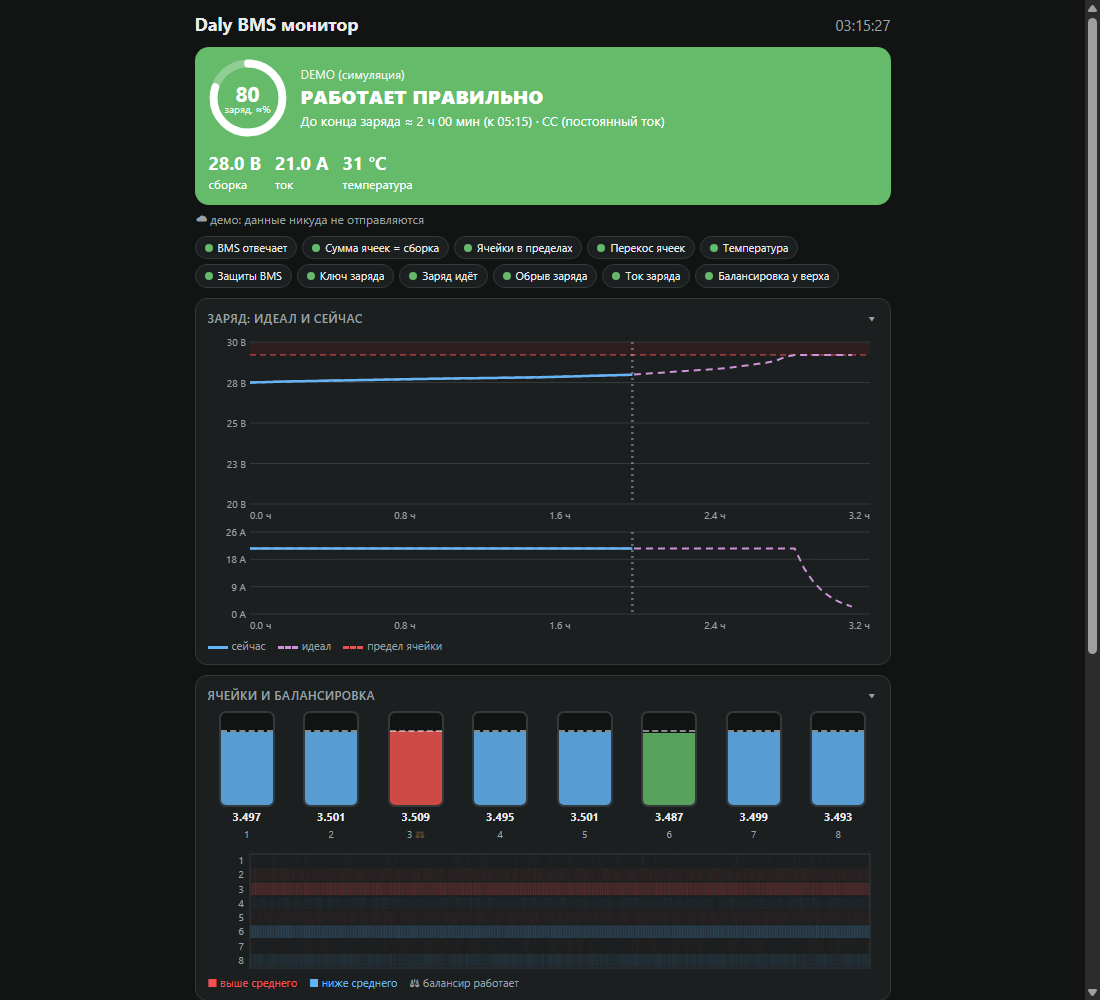
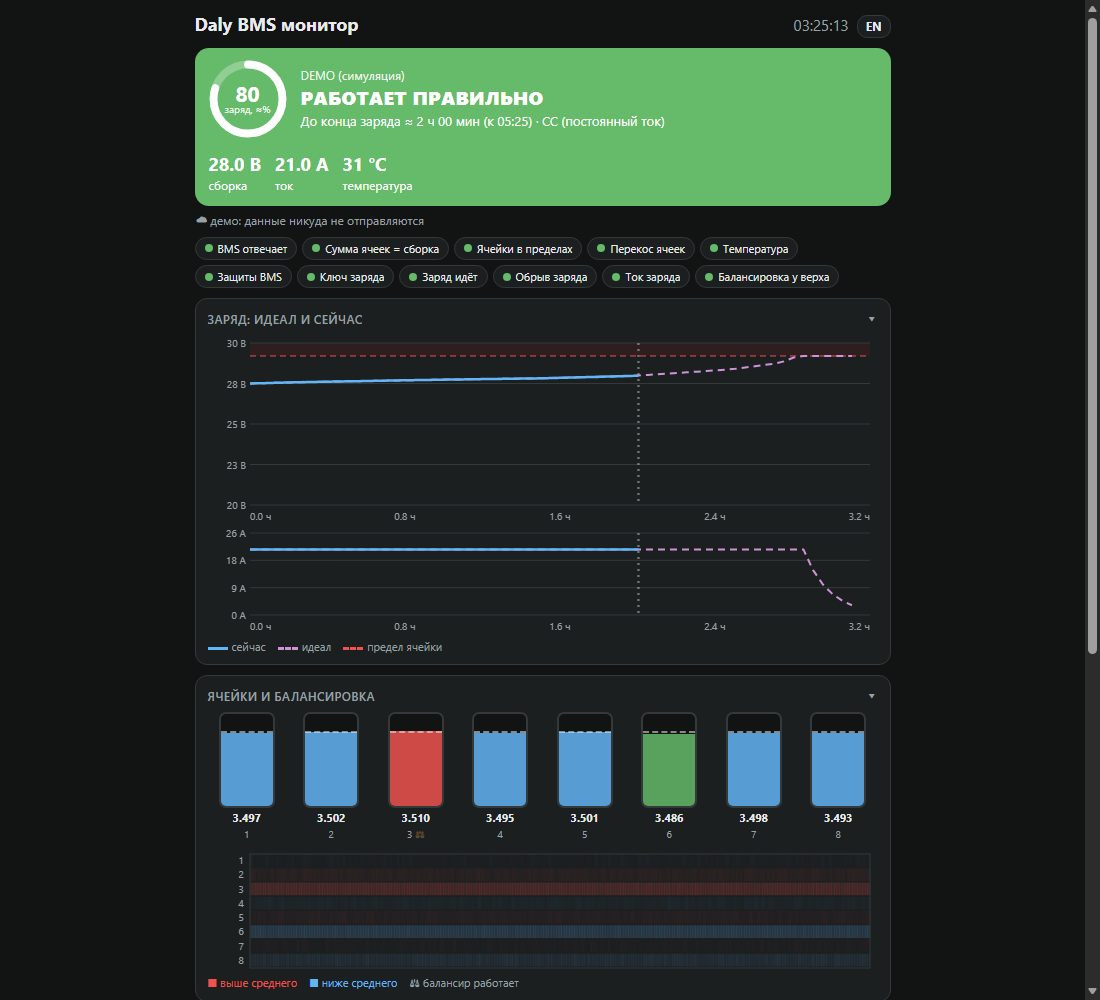
Полный английский интерфейс: переключатель RU/EN, перевод проверок, защит и подписей; английские скриншоты

diff --git a/app.js b/app.js
@@ -1,14 +1,17 @@
 'use strict';
+const LANG=(()=>{let l='';try{const m=/[?&]lang=(en|ru)\b/.exec(location.search);l=m?m[1]:localStorage.getItem('daly2:lang')||''}catch(e){}if(l!=='en'&&l!=='ru')l=/^(ru|uk|be|kk)\b/i.test(navigator.language||'')?'ru':'en';return l})();
+const tr=(ru,en)=>LANG==='ru'?ru:en;
+const uV=tr('В','V'),uA=tr('А','A'),umV=tr('мВ','mV');
 const $=id=>document.getElementById(id);
 const col=k=>getComputedStyle(document.documentElement).getPropertyValue(k).trim();
 const esc=s=>String(s).replace(/[&<>]/g,c=>({'&':'&amp;','<':'&lt;','>':'&gt;'}[c]));
 const sleep=ms=>new Promise(r=>setTimeout(r,ms));
 const u16=(f,i)=>(f[i]<<8)|f[i+1];
 const frame=cmd=>{const f=[0xA5,0x40,cmd,8,0,0,0,0,0,0,0,0];f.push(f.reduce((a,b)=>a+b)&255);return new Uint8Array(f)};
-const fh=m=>m==null?'—':(m>=60?Math.floor(m/60)+' ч '+String(m%60).padStart(2,'0')+' мин':m+' мин');
+const fh=m=>m==null?'—':(m>=60?Math.floor(m/60)+tr(' ч ',' h ')+String(m%60).padStart(2,'0')+tr(' мин',' min'):m+tr(' мин',' min'));
 const stamp=()=>{const d=new Date(),p=n=>String(n).padStart(2,'0');return `${d.getFullYear()}-${p(d.getMonth()+1)}-${p(d.getDate())} ${p(d.getHours())}:${p(d.getMinutes())}:${p(d.getSeconds())}`};
 const SVC=0xfff0,PERIOD=2000,LONG_STEP=30,MAXLONG=5760;
-const L=["РАБОТАЕТ ПРАВИЛЬНО","ВНИМАНИЕ","НЕИСПРАВНОСТЬ / НЕТ СВЯЗИ"];
+const L=[tr('РАБОТАЕТ ПРАВИЛЬНО','WORKING CORRECTLY'),tr('ВНИМАНИЕ','ATTENTION'),tr('НЕИСПРАВНОСТЬ / НЕТ СВЯЗИ','FAULT / NO CONNECTION')];
 
 const CHEM={
  lfp:{name:'LiFePO4',vmax:3650,hiWarn:3600,loWarn:2800,loBad:2500,top:3450,
@@ -16,6 +19,7 @@ const CHEM={
  nmc:{name:'Li-ion NMC',vmax:4200,hiWarn:4150,loWarn:3200,loBad:2800,top:4100,
   ocv:[[3.00,0],[3.30,5],[3.50,20],[3.60,35],[3.70,50],[3.80,65],[3.90,77],[4.00,88],[4.10,95],[4.20,100]]}
 };
+const NEN={'BMS отвечает':'BMS responds','Сумма ячеек = сборка':'Cells sum = pack','Ячейки в пределах':'Cells in range','Перекос ячеек':'Cell spread','Температура':'Temperature','Защиты BMS':'BMS protections','Ключ заряда':'Charge switch','Заряд идёт':'Charging','Обрыв заряда':'Charge interruption','Ток заряда':'Charge current','Балансировка у верха':'Top balancing'};
 const SPREAD_WARN=150,SPREAD_BAD=300,TOP_SPREAD=60,T_WARN=45,T_BAD=55,SUM_TOL=.5,RISE_MIN=2,DROP_V=.3;
 const FAULTS=[[0,[0,1],"перенапряжение ячейки"],[0,[2,3],"недонапряжение ячейки"],[0,[4,5],"перенапряжение сборки"],[0,[6,7],"недонапряжение сборки"],
  [1,[0,1],"перегрев при заряде"],[1,[2,3],"холод при заряде"],[1,[4,5],"перегрев при разряде"],[1,[6,7],"холод при разряде"],
@@ -23,8 +27,10 @@ const FAULTS=[[0,[0,1],"перенапряжение ячейки"],[0,[2,3],"н
  [4,[0],"перегрев ключа заряда"],[4,[1],"перегрев ключа разряда"],[4,[2],"датчик ключа заряда"],[4,[3],"датчик ключа разряда"],[4,[4],"залип ключ заряда"],[4,[5],"залип ключ разряда"],[4,[6],"обрыв ключа заряда"],[4,[7],"обрыв ключа разряда"],
  [5,[0],"сбой AFE"],[5,[1],"ячейка не читается"],[5,[2],"датчик температуры"],[5,[3],"EEPROM"],[5,[4],"RTC"],[5,[5],"предзаряд"],[5,[6],"связь"],[5,[7],"внутренняя связь"],
  [6,[0],"датчик тока"],[6,[1],"датчик напряжения"],[6,[2],"короткое замыкание"],[6,[3],"заряд запрещён: низкое напряжение"]];
-const SOFT=['SOC низкий','SOC высокий'];
-function decodeFaults(b){const o=[];if(!b)return o;FAULTS.forEach(([by,bits,n])=>bits.forEach((bit,l)=>{if(by<b.length&&(b[by]>>bit)&1)o.push(n+(bits.length>1?' (ур. '+(l+1)+')':''))}));return o}
+const FEN={'перенапряжение ячейки':'cell overvoltage','недонапряжение ячейки':'cell undervoltage','перенапряжение сборки':'pack overvoltage','недонапряжение сборки':'pack undervoltage','перегрев при заряде':'overtemperature (charge)','холод при заряде':'undertemperature (charge)','перегрев при разряде':'overtemperature (discharge)','холод при разряде':'undertemperature (discharge)','перегрузка заряда':'charge overcurrent','перегрузка разряда':'discharge overcurrent','SOC высокий':'SOC high','SOC низкий':'SOC low','перекос напряжений':'voltage imbalance','перекос температур':'temperature imbalance','перегрев ключа заряда':'charge MOSFET overheat','перегрев ключа разряда':'discharge MOSFET overheat','датчик ключа заряда':'charge MOSFET sensor','датчик ключа разряда':'discharge MOSFET sensor','залип ключ заряда':'charge MOSFET stuck','залип ключ разряда':'discharge MOSFET stuck','обрыв ключа заряда':'charge MOSFET open','обрыв ключа разряда':'discharge MOSFET open','сбой AFE':'AFE failure','ячейка не читается':'cell read failure','датчик температуры':'temperature sensor','EEPROM':'EEPROM','RTC':'RTC','предзаряд':'precharge','связь':'communication','внутренняя связь':'internal communication','датчик тока':'current sensor','датчик напряжения':'voltage sensor','короткое замыкание':'short circuit','заряд запрещён: низкое напряжение':'charging inhibited: low voltage'};
+const tf=n=>LANG==='ru'?n:(FEN[n]||n);
+const SOFT=['SOC низкий','SOC высокий'].map(tf);
+function decodeFaults(b){const o=[];if(!b)return o;FAULTS.forEach(([by,bits,n])=>bits.forEach((bit,l)=>{if(by<b.length&&(b[by]>>bit)&1)o.push(tf(n)+(bits.length>1?tr(' (ур. ',' (lvl ')+(l+1)+')':''))}));return o}
 const ocvSoc=(tab,v)=>{if(v<=tab[0][0])return 0;for(let i=1;i<tab.length;i++){if(v<=tab[i][0]){const a=tab[i-1],b=tab[i];return a[1]+(b[1]-a[1])*(v-a[0])/(b[0]-a[0])}}return 100};
 const ocvV=(tab,s)=>{if(s<=0)return tab[0][0];for(let i=1;i<tab.length;i++){if(s<=tab[i][1]){const a=tab[i-1],b=tab[i];return a[0]+(b[0]-a[0])*(s-a[1])/(b[1]-a[1])}}return tab[tab.length-1][0]};
 
@@ -32,7 +38,7 @@ const ocvV=(tab,s)=>{if(s<=0)return tab[0][0];for(let i=1;i<tab.length;i++){if(s
 let ac=null;const audio=()=>{try{ac=ac||new AudioContext();ac.resume()}catch(e){}};
 const glog=m=>{const e=$('log');e.innerHTML=`<div>${esc(stamp().slice(11))} ${esc(m)}</div>`+e.innerHTML.split('</div>').slice(0,30).join('</div>')};
 let lastAlarm=0;
-function alarm(msg){glog('СИГНАЛ: '+msg);if(Date.now()-lastAlarm<60000)return;lastAlarm=Date.now();
+function alarm(msg){glog(tr('СИГНАЛ: ','ALARM: ')+msg);if(Date.now()-lastAlarm<60000)return;lastAlarm=Date.now();
  try{navigator.vibrate&&navigator.vibrate([400,150,400,150,400])}catch(e){}
  try{if(ac)for(let i=0;i<5;i++){const o=ac.createOscillator(),g=ac.createGain();o.frequency.value=i%2?880:660;o.connect(g);g.connect(ac.destination);g.gain.value=.25;o.start(ac.currentTime+i*.35);o.stop(ac.currentTime+i*.35+.28)}}catch(e){}
  try{if(Notification.permission==='granted'&&navigator.serviceWorker)navigator.serviceWorker.ready.then(r=>r.showNotification('Daly BMS',{body:msg,vibrate:[300,100,300],tag:'daly'}))}catch(e){}}
@@ -48,25 +54,25 @@ const hash6=s=>{let h=5381;for(const c of s)h=((h<<5)+h+c.charCodeAt(0))>>>0;ret
 const MIN_GAP=60000;   // защита от частых отправок: не чаще раза в минуту с одного устройства
 function toast(msg,kind){const t=$('toast'),d=document.createElement('div');d.textContent=msg;if(kind)d.className=kind;t.appendChild(d);setTimeout(()=>d.remove(),4500);while(t.children.length>3)t.firstChild.remove()}
 const pending=dv=>({rows:dv.long.filter(x=>x[0]>dv.upT).length,evs:dv.events.filter(e=>e.t>dv.upE).length});
-function cloudLine(dv){if(dv.demo)return'☁ демо: данные никуда не отправляются';if(!cloudOn())return localStorage.getItem('daly2:cloud')==='1'?'☁ облако не настроено':'☁ отправка в облако выключена';
+function cloudLine(dv){if(dv.demo)return tr('☁ демо: данные никуда не отправляются','☁ demo: nothing is sent anywhere');if(!cloudOn())return localStorage.getItem('daly2:cloud')==='1'?tr('☁ облако не настроено','☁ cloud not configured'):tr('☁ отправка в облако выключена','☁ cloud upload is off');
  const p=pending(dv),when=dv.sentAt?new Date(dv.sentAt).toLocaleTimeString([],{hour:'2-digit',minute:'2-digit'}):'';
- const st=dv.sentOk===false?'последняя попытка не удалась':dv.sentAt?'последняя отправка '+when+(dv.sentOk===true?' ✓ подтверждена':' (без подтверждения)'):'ещё не отправляли';
- return `☁ отправлено ${dv.sent} замеров · ждёт отправки ${p.rows} · ${st}`}
+ const st=dv.sentOk===false?tr('последняя попытка не удалась','last attempt failed'):dv.sentAt?tr('последняя отправка ','last upload ')+when+(dv.sentOk===true?tr(' ✓ подтверждена',' ✓ confirmed'):tr(' (без подтверждения)',' (unconfirmed)')):tr('ещё не отправляли','nothing uploaded yet');
+ return tr(`☁ отправлено ${dv.sent} замеров · ждёт отправки ${p.rows} · ${st}`,`☁ uploaded ${dv.sent} samples · pending ${p.rows} · ${st}`)}
 async function upload(dv,manual){
- if(dv.demo){if(manual)toast('В демо ничего не отправляется');return}
- if(!cloudOn()){if(manual)toast(localStorage.getItem('daly2:cloud')==='1'?'Облако не настроено':'Включите галочку «Отправлять данные» на стартовом экране');return}
+ if(dv.demo){if(manual)toast(tr('В демо ничего не отправляется','Nothing is sent in demo mode'));return}
+ if(!cloudOn()){if(manual)toast(localStorage.getItem('daly2:cloud')==='1'?tr('Облако не настроено','Cloud not configured'):tr('Включите галочку «Отправлять данные» на стартовом экране','Tick "Send charge data" on the start screen'));return}
  if(dv.sending)return;const wait=MIN_GAP-(Date.now()-dv.lastTry);
- if(wait>0){if(manual)toast(`Слишком часто: подождите ${Math.ceil(wait/1000)} с`,'bad');return}
- const p=pending(dv);if(!p.rows&&!p.evs){if(manual)toast('Всё уже отправлено, новых данных нет','ok');return}
+ if(wait>0){if(manual)toast(tr(`Слишком часто: подождите ${Math.ceil(wait/1000)} с`,`Too often: wait ${Math.ceil(wait/1000)} s`),'bad');return}
+ const p=pending(dv);if(!p.rows&&!p.evs){if(manual)toast(tr('Всё уже отправлено, новых данных нет','Everything is already uploaded'),'ok');return}
  const rows=dv.long.filter(x=>x[0]>dv.upT).slice(0,500),evs=dv.events.filter(e=>e.t>dv.upE).reverse().slice(0,100);
  const body=JSON.stringify({v:1,sid:anon+'-'+hash6(dv.id),chem:dv.chem,cap:dv.cap,cycles:dv.last&&dv.last.cycles,rows:rows.map(x=>[x[0],x[1],...x[2]]),events:evs.map(e=>[e.t,e.level,e.text])});
  dv.sending=true;dv.lastTry=Date.now();let confirmed=false;
  try{try{const r=await fetch(cloudUrl(),{method:'POST',headers:{'Content-Type':'text/plain'},body,referrerPolicy:'no-referrer',credentials:'omit'}),t=(await r.text()).trim();
-    if(t!=='ok')throw new Error(t.slice(0,80)||'пустой ответ');confirmed=true}
+    if(t!=='ok')throw new Error(t.slice(0,80)||tr('пустой ответ','empty response'));confirmed=true}
    catch(e){if(!(e instanceof TypeError))throw e;await fetch(cloudUrl(),{method:'POST',mode:'no-cors',headers:{'Content-Type':'text/plain'},body,referrerPolicy:'no-referrer',credentials:'omit'})}
   if(rows.length)dv.upT=rows[rows.length-1][0];if(evs.length)dv.upE=evs[evs.length-1].t;dv.sent+=rows.length;dv.sentAt=Date.now();dv.sentOk=confirmed?true:'noconf';dv.save();
-  if(manual||!dv.toasted){dv.toasted=true;toast(`☁ Отправлено: ${rows.length} замеров, ${evs.length} событий${confirmed?' · подтверждено':' · без подтверждения'}`,'ok')}glog(`отправлено в облако: ${rows.length} замеров, ${evs.length} событий`)}
- catch(e){dv.sentOk=false;if(manual||!dv.failToast||Date.now()-dv.failToast>600000){dv.failToast=Date.now();toast('☁ Не отправлено: '+(e.message||e),'bad')}glog('облако: '+(e.message||e))}
+  if(manual||!dv.toasted){dv.toasted=true;toast(tr(`☁ Отправлено: ${rows.length} замеров, ${evs.length} событий${confirmed?' · подтверждено':' · без подтверждения'}`,`☁ Uploaded: ${rows.length} samples, ${evs.length} events${confirmed?' · confirmed':' · unconfirmed'}`),'ok')}glog(tr(`отправлено в облако: ${rows.length} замеров, ${evs.length} событий`,`uploaded: ${rows.length} samples, ${evs.length} events`))}
+ catch(e){dv.sentOk=false;if(manual||!dv.failToast||Date.now()-dv.failToast>600000){dv.failToast=Date.now();toast(tr('☁ Не отправлено: ','☁ Not uploaded: ')+(e.message||e),'bad')}glog(tr('облако: ','cloud: ')+(e.message||e))}
  finally{dv.sending=false}}
 const uploadAll=m=>devs.forEach(d=>upload(d,m));
 
@@ -74,7 +80,7 @@ const uploadAll=m=>devs.forEach(d=>upload(d,m));
 class Dev{
  constructor(device){this.dev=device;this.id=device.id;this.name=device.name||device.id;this.key='daly2:'+device.id;
   this.buf=[];this.frames=[];this.waiter=null;this.hist=[];this.long=[];this.events=[];this.chem='lfp';this.cap=105;
-  this.last=null;this.prev=null;this.online=false;this.err='подключение…';this.want=true;this.running=false;this.badUntil=0;
+  this.last=null;this.prev=null;this.online=false;this.err=tr('подключение…','connecting…');this.want=true;this.running=false;this.badUntil=0;
   this.ahIn=0;this.ahOut=0;this.t0=Date.now();this.longT=0;this.checks=[];this.level=3;
   this.upT=0;this.upE='';this.sent=0;this.sentAt=0;this.sentOk=null;this.lastTry=0;this.sending=false;
   try{const s=JSON.parse(localStorage.getItem(this.key)||'{}');if(CHEM[s.chem])this.chem=s.chem;if(Number.isFinite(s.cap))this.cap=Math.min(2000,Math.max(1,s.cap));
@@ -83,19 +89,19 @@ class Dev{
    this.events=(Array.isArray(s.events)?s.events:[]).filter(e=>e&&typeof e.t==='string'&&typeof e.text==='string').slice(0,200).map(e=>({t:e.t.slice(0,25),level:e.level|0,text:e.text.slice(0,200)}));
    this.upT=num(s.upT)?s.upT:0;this.upE=typeof s.upE==='string'?s.upE.slice(0,25):'';this.sent=num(s.sent)?s.sent:0;this.sentAt=num(s.sentAt)?s.sentAt:0;
    this.longT=this.long.length?this.long[this.long.length-1][0]:0}catch(e){}
-  device.addEventListener('gattserverdisconnected',()=>{this.running=false;this.setOnline(false,'связь потеряна');upload(this);if(this.want)this.reconnect()})}
+  device.addEventListener('gattserverdisconnected',()=>{this.running=false;this.setOnline(false,tr('связь потеряна','connection lost'));upload(this);if(this.want)this.reconnect()})}
  get C(){return CHEM[this.chem]}
  save(){try{localStorage.setItem(this.key,JSON.stringify({chem:this.chem,cap:this.cap,long:this.long.slice(-MAXLONG),events:this.events.slice(0,200),upT:this.upT,upE:this.upE,sent:this.sent,sentAt:this.sentAt}))}catch(e){glog('история не сохраняется: '+e)}}
  event(level,text){this.events.unshift({t:stamp(),level,text});if(this.events.length>200)this.events.pop();if(level==2)alarm(this.name+': '+text)}
- setOnline(on,err){if(on!==this.online){this.event(on?0:1,on?'связь установлена':'связь потеряна: '+(err||''))}this.online=on;if(!on)this.err=err||''}
+ setOnline(on,err){if(on!==this.online){this.event(on?0:1,on?tr('связь установлена','connected'):tr('связь потеряна: ','connection lost: ')+(err||''))}this.online=on;if(!on)this.err=err||''}
  async reconnect(){for(let i=0;this.want&&!this.running;i++){await sleep(Math.min(3000+i*1000,10000));if(!this.want||this.running)return;
-   try{await this.connect()}catch(e){this.err='переподключаюсь… ('+(i+1)+')'}}}
+   try{await this.connect()}catch(e){this.err=tr('переподключаюсь… (','reconnecting… (')+(i+1)+')'}}}
  async connect(){
   const srv=await this.dev.gatt.connect();const s=await srv.getPrimaryService(SVC);
   let cs=[];for(let i=0;i<4&&!cs.length;i++){try{cs=await s.getCharacteristics()}catch(e){await sleep(1000)}}
   const rx=cs.find(c=>c.uuid.startsWith('0000fff1'))||cs.find(c=>c.properties.notify);
   this.tx=cs.find(c=>c.uuid.startsWith('0000fff2'))||cs.find(c=>c.properties.writeWithoutResponse||c.properties.write);
-  if(!rx||!this.tx)throw new Error('нет нужных характеристик (удалите устройство в настройках Bluetooth телефона и добавьте заново)');
+  if(!rx||!this.tx)throw new Error(tr('нет нужных характеристик (удалите устройство в настройках Bluetooth телефона и добавьте заново)','required characteristics not found (remove the device in your phone\'s Bluetooth settings and add it again)'));
   await rx.startNotifications();rx.addEventListener('characteristicvaluechanged',e=>this.onData(e));
   this.buf=[];this.running=true;this.setOnline(true);lock();this.loop()}
  onData(ev){const v=new Uint8Array(ev.target.value.buffer);this.buf.push(...v);
@@ -104,7 +110,7 @@ class Dev{
  async ask(cmd,n=1){this.frames=[];await this.tx.writeValueWithoutResponse(frame(cmd));const end=Date.now()+1500;
   for(;;){const got=this.frames.filter(f=>f[2]===cmd);if(got.length>=n||Date.now()>=end)return got;
    await new Promise(r=>{const t=setTimeout(r,Math.max(50,end-Date.now()));this.waiter=()=>{clearTimeout(t);this.waiter=null;r()}})}}
- async poll(){const d={t:Date.now()/1000};let f=await this.ask(0x90);if(!f.length)throw new Error('нет ответа');f=f[0];
+ async poll(){const d={t:Date.now()/1000};let f=await this.ask(0x90);if(!f.length)throw new Error(tr('нет ответа','no response'));f=f[0];
   d.V=u16(f,4)/10;d.I=(u16(f,8)-30000)/10;d.soc=u16(f,10)/10;
   f=await this.ask(0x92);if(f.length){d.tmax=f[0][4]-40;d.tmin=f[0][6]-40}
   f=await this.ask(0x93);if(f.length){f=f[0];d.state=f[4];d.chg=f[5];d.dis=f[6];d.cap=((f[8]<<24)|(f[9]<<16)|(f[10]<<8)|f[11])/1000}
@@ -115,31 +121,31 @@ class Dev{
  async loop(){while(this.running){const t0=Date.now();try{this.update(await this.poll())}catch(e){if(this.running)this.err=String(e.message||e)}await sleep(Math.max(100,PERIOD-(Date.now()-t0)))}}
 
  slope(t){const p=this.hist.filter(h=>h.t>=t-300&&h.sum);if(p.length<2||p[p.length-1].t-p[0].t<120)return null;return(p[p.length-1].sum-p[0].sum)*1000/((p[p.length-1].t-p[0].t)/60)}
- evaluate(d){const ck=[],C=this.C,add=(name,level,text)=>ck.push({name,level,text});
-  if(d.asleep){add('BMS отвечает',1,'BMS спит: модуль отвечает, данные нулевые');return ck}
-  add('BMS отвечает',0,'данные получены');const cs=d.cells,mx=Math.max(...cs),mn=Math.min(...cs),sm=cs.reduce((a,b)=>a+b,0)/1000,sp=mx-mn;
-  add('Сумма ячеек = сборка',Math.abs(sm-d.V)<=SUM_TOL?0:1,`${sm.toFixed(2)} В против ${d.V.toFixed(1)} В`);
-  add('Ячейки в пределах',mx>=C.vmax||mn<=C.loBad?2:(mx>=C.hiWarn||mn<=C.loWarn?1:0),`${(mn/1000).toFixed(3)}…${(mx/1000).toFixed(3)} В`);
-  add('Перекос ячеек',sp>=SPREAD_BAD?2:sp>=SPREAD_WARN?1:0,`${sp} мВ (макс яч. ${cs.indexOf(mx)+1}, мин яч. ${cs.indexOf(mn)+1})`);
+ evaluate(d){const ck=[],C=this.C,add=(name,level,text)=>ck.push({name:LANG==='ru'?name:(NEN[name]||name),level,text});
+  if(d.asleep){add('BMS отвечает',1,tr('BMS спит: модуль отвечает, данные нулевые','BMS is asleep: the module responds, data is zero'));return ck}
+  add('BMS отвечает',0,tr('данные получены','data received'));const cs=d.cells,mx=Math.max(...cs),mn=Math.min(...cs),sm=cs.reduce((a,b)=>a+b,0)/1000,sp=mx-mn;
+  add('Сумма ячеек = сборка',Math.abs(sm-d.V)<=SUM_TOL?0:1,`${sm.toFixed(2)} ${uV} ${tr('против','vs')} ${d.V.toFixed(1)} ${uV}`);
+  add('Ячейки в пределах',mx>=C.vmax||mn<=C.loBad?2:(mx>=C.hiWarn||mn<=C.loWarn?1:0),`${(mn/1000).toFixed(3)}…${(mx/1000).toFixed(3)} ${uV}`);
+  add('Перекос ячеек',sp>=SPREAD_BAD?2:sp>=SPREAD_WARN?1:0,tr(`${sp} мВ (макс яч. ${cs.indexOf(mx)+1}, мин яч. ${cs.indexOf(mn)+1})`,`${sp} mV (max cell ${cs.indexOf(mx)+1}, min cell ${cs.indexOf(mn)+1})`));
   if(d.tmax!=null)add('Температура',d.tmax>=T_BAD||d.tmax<0?2:d.tmax>=T_WARN?1:0,`${d.tmin}…${d.tmax} °C`);
   const fl=decodeFaults(d.fault),hard=fl.filter(x=>!SOFT.some(k=>x.startsWith(k)));
-  add('Защиты BMS',hard.length?2:0,fl.length?fl.join('; ')+(hard.length?'':' (SOC не откалиброван, не критично)'):'нет');
+  add('Защиты BMS',hard.length?2:0,fl.length?fl.join('; ')+(hard.length?'':tr(' (SOC не откалиброван, не критично)',' (SOC not calibrated, not critical)')):tr('нет','none'));
   const sl=this.slope(d.t);
-  if(d.charger&&!d.chg)add('Ключ заряда',2,'зарядное подключено, а ключ заряда ВЫКЛ');else add('Ключ заряда',d.chg?0:1,d.chg?'вкл':'выкл (зарядное не обнаружено)');
-  if(d.I>.3)add('Заряд идёт',0,`ток ${d.I.toFixed(1)} А`);
-  else if(sl==null)add('Заряд идёт',0,'копится история (нужно 2 мин)');
-  else if(sl>=RISE_MIN)add('Заряд идёт',0,`сумма ячеек растёт +${sl.toFixed(1)} мВ/мин`);
-  else if(mx>=C.top)add('Заряд идёт',0,'ячейки у верха, рост остановился (CV или конец)');
-  else add('Заряд идёт',1,`нет роста напряжения за 5 мин (${sl.toFixed(1)} мВ/мин): заряд не идёт или завершён`);
-  add('Обрыв заряда',Date.now()<this.badUntil?2:0,Date.now()<this.badUntil?'недавно напряжение упало: заряд оборвался (см. события)':'не было');
-  if(d.I>.3){const cr=d.I/this.cap;add('Ток заряда',d.I>60?2:cr>.5?1:0,`${d.I.toFixed(1)} А = ${cr.toFixed(2)}C (норма 0,1–0,3C = ${(.1*this.cap).toFixed(0)}–${(.3*this.cap).toFixed(0)} А)`)}
-  if(mx>=C.top)add('Балансировка у верха',sp<=TOP_SPREAD?0:1,`перекос ${sp} мВ, цель ≤${TOP_SPREAD}; балансир ${d.bal.some(x=>x)?'работает':'не включён'}`);
+  if(d.charger&&!d.chg)add('Ключ заряда',2,tr('зарядное подключено, а ключ заряда ВЫКЛ','charger is connected but the charge switch is OFF'));else add('Ключ заряда',d.chg?0:1,d.chg?tr('вкл','on'):tr('выкл (зарядное не обнаружено)','off (no charger detected)'));
+  if(d.I>.3)add('Заряд идёт',0,tr(`ток ${d.I.toFixed(1)} А`,`current ${d.I.toFixed(1)} A`));
+  else if(sl==null)add('Заряд идёт',0,tr('копится история (нужно 2 мин)','collecting history (needs 2 min)'));
+  else if(sl>=RISE_MIN)add('Заряд идёт',0,tr(`сумма ячеек растёт +${sl.toFixed(1)} мВ/мин`,`cell sum rising +${sl.toFixed(1)} mV/min`));
+  else if(mx>=C.top)add('Заряд идёт',0,tr('ячейки у верха, рост остановился (CV или конец)','cells are at the top, rise has stopped (CV or finished)'));
+  else add('Заряд идёт',1,tr(`нет роста напряжения за 5 мин (${sl.toFixed(1)} мВ/мин): заряд не идёт или завершён`,`no voltage rise in 5 min (${sl.toFixed(1)} mV/min): not charging or finished`));
+  add('Обрыв заряда',Date.now()<this.badUntil?2:0,Date.now()<this.badUntil?tr('недавно напряжение упало: заряд оборвался (см. события)','voltage dropped recently: charging was interrupted (see events)'):tr('не было','none'));
+  if(d.I>.3){const cr=d.I/this.cap;add('Ток заряда',d.I>60?2:cr>.5?1:0,tr(`${d.I.toFixed(1)} А = ${cr.toFixed(2)}C (норма 0,1–0,3C = ${(.1*this.cap).toFixed(0)}–${(.3*this.cap).toFixed(0)} А)`,`${d.I.toFixed(1)} A = ${cr.toFixed(2)}C (normal 0.1–0.3C = ${(.1*this.cap).toFixed(0)}–${(.3*this.cap).toFixed(0)} A)`))}
+  if(mx>=C.top)add('Балансировка у верха',sp<=TOP_SPREAD?0:1,tr(`перекос ${sp} мВ, цель ≤${TOP_SPREAD}; балансир ${d.bal.some(x=>x)?'работает':'не включён'}`,`spread ${sp} mV, target ≤${TOP_SPREAD}; balancer ${d.bal.some(x=>x)?'active':'off'}`));
   return ck}
- detect(d){const p=this.prev;if(p&&!d.asleep&&!p.asleep){[['chg','ключ заряда'],['dis','ключ разряда'],['charger','зарядное']].forEach(([k,nm])=>{if(d[k]!==p[k]&&d[k]!=null)this.event(k!=='chg'||d[k]?1:2,`${nm}: ${d[k]?'вкл':'выкл'}`)});
-   if(String(d.fault)!==String(p.fault)){const fl=decodeFaults(d.fault);this.event(fl.some(x=>!SOFT.some(k=>x.startsWith(k)))?2:1,'защиты: '+(fl.join('; ')||'сняты'))}
+ detect(d){const p=this.prev;if(p&&!d.asleep&&!p.asleep){[['chg',tr('ключ заряда','charge switch')],['dis',tr('ключ разряда','discharge switch')],['charger',tr('зарядное','charger')]].forEach(([k,nm])=>{if(d[k]!==p[k]&&d[k]!=null)this.event(k!=='chg'||d[k]?1:2,`${nm}: ${d[k]?tr('вкл','on'):tr('выкл','off')}`)});
+   if(String(d.fault)!==String(p.fault)){const fl=decodeFaults(d.fault);this.event(fl.some(x=>!SOFT.some(k=>x.startsWith(k)))?2:1,tr('защиты: ','protections: ')+(fl.join('; ')||tr('сняты','cleared')))}
    const old=this.hist.find(h=>h.sum&&h.t>=d.t-70&&h.t<=d.t-50),sm=d.cells.reduce((a,b)=>a+b,0)/1000;
-   if(old&&old.sum-sm>=DROP_V&&(p.chg||d.I>.3||p.I>.3)){this.event(2,`заряд оборвался: сумма ячеек упала на ${(old.sum-sm).toFixed(2)} В за минуту`);this.badUntil=Date.now()+600000}}
-  if(p&&d.asleep!==p.asleep)this.event(1,d.asleep?'BMS уснула':'BMS проснулась')}
+   if(old&&old.sum-sm>=DROP_V&&(p.chg||d.I>.3||p.I>.3)){this.event(2,tr(`заряд оборвался: сумма ячеек упала на ${(old.sum-sm).toFixed(2)} В за минуту`,`charging interrupted: cell sum dropped by ${(old.sum-sm).toFixed(2)} V in a minute`));this.badUntil=Date.now()+600000}}
+  if(p&&d.asleep!==p.asleep)this.event(1,d.asleep?tr('BMS уснула','BMS fell asleep'):tr('BMS проснулась','BMS woke up'))}
  update(d){d.sum=d.cells.reduce((a,b)=>a+b,0)/1000;
   if(this.prev&&!d.asleep){const dt=Math.min(d.t-this.prev.t,10);if(d.I>0)this.ahIn+=d.I*dt/3600;else this.ahOut+=-d.I*dt/3600}
   this.detect(d);this.hist.push(d);if(this.hist.length>1800)this.hist.shift();
@@ -148,10 +154,10 @@ class Dev{
   this.prev=this.last=d;this.err=''}
  metrics(){const d=this.last;if(!d||d.asleep||!d.cells.length)return null;const C=this.C,cs=d.cells,I=d.I,mvA=735/this.cap;
   const avg=cs.reduce((a,b)=>a+b,0)/cs.length,soc=ocvSoc(C.ocv,(avg-mvA*Math.max(I,0))/1000);
-  const pts=this.hist.filter(h=>h.t>=d.t-900);let phase='нет заряда',eta=null;
-  if(I>.3){phase='CC (постоянный ток)';const rem=(100-soc)/100*this.cap;eta=rem/I*60+60;
+  const pts=this.hist.filter(h=>h.t>=d.t-900);let phase=tr('нет заряда','not charging'),eta=null;
+  if(I>.3){phase=tr('CC (постоянный ток)','CC (constant current)');const rem=(100-soc)/100*this.cap;eta=rem/I*60+60;
    if(pts.length>=40){const a=pts.slice(0,10).reduce((x,h)=>x+h.I,0)/10,b=pts.slice(-10).reduce((x,h)=>x+h.I,0)/10;
-    if(b<a*.9&&Math.max(...cs)>=C.top-50&&b>0){phase='CV (ток падает)';const k=Math.log(b/a)/((pts[pts.length-1].t-pts[0].t)/60),end=.03*this.cap;eta=b>end&&k<0?Math.max(0,Math.log(end/b)/k):0}}}
+    if(b<a*.9&&Math.max(...cs)>=C.top-50&&b>0){phase=tr('CV (ток падает)','CV (current falling)');const k=Math.log(b/a)/((pts[pts.length-1].t-pts[0].t)/60),end=.03*this.cap;eta=b>end&&k<0?Math.max(0,Math.log(end/b)/k):0}}}
   const f=this.long[0],first=f?f[2]:null,i0=f?f[1]:0,s0=f?ocvSoc(C.ocv,(first.reduce((a,b)=>a+b,0)/first.length-mvA*Math.max(i0,0))/1000):0;
   const cur=this.long.map(x=>x[1]).filter(x=>x>.3).sort((a,b)=>a-b);
   return{phase,soc:Math.round(soc),eta:eta==null?null:Math.round(eta),cycles:d.cycles,cap:this.cap,n:cs.length,s0,iset:cur.length?cur[cur.length>>1]:0,ahIn:this.ahIn,ahOut:this.ahOut,capBms:d.cap}}
@@ -170,7 +176,7 @@ function plot(c,o){const r=devicePixelRatio||1,w=c.clientWidth,h=c.clientHeight;
  const P={l:42,r:8,t:8,b:20},W=w-P.l-P.r,H=h-P.t-P.b,X=x=>P.l+(x-o.x[0])/(o.x[1]-o.x[0]||1)*W,Y=y=>P.t+H-(y-o.y[0])/(o.y[1]-o.y[0]||1)*H;
  g.font='10px system-ui';(o.bands||[]).forEach(b=>{g.fillStyle=b.c;const y1=Y(Math.min(b.y1,o.y[1])),y0=Y(Math.max(b.y0,o.y[0]));g.fillRect(P.l,y1,W,y0-y1)});
  const ty=o.yt||4;for(let i=0;i<=ty;i++){const v=o.y[0]+(o.y[1]-o.y[0])*i/ty,y=Y(v);g.strokeStyle=col('--bd');g.lineWidth=1;g.beginPath();g.moveTo(P.l,y);g.lineTo(P.l+W,y);g.stroke();g.fillStyle=col('--mut');g.textAlign='right';g.fillText((o.yf||(v=>v.toFixed(1)))(v),P.l-4,y+4)}
- const tx=o.xt||4;for(let i=0;i<=tx;i++){const v=o.x[0]+(o.x[1]-o.x[0])*i/tx;g.fillStyle=col('--mut');g.textAlign=i==tx?'right':i==0?'left':'center';g.fillText(v.toFixed(1)+' ч',X(v),h-5)}
+ const tx=o.xt||4;for(let i=0;i<=tx;i++){const v=o.x[0]+(o.x[1]-o.x[0])*i/tx;g.fillStyle=col('--mut');g.textAlign=i==tx?'right':i==0?'left':'center';g.fillText(v.toFixed(1)+tr(' ч',' h'),X(v),h-5)}
  (o.lines||[]).forEach(l=>{if(!l.pts||l.pts.length<2)return;g.beginPath();g.strokeStyle=l.c.startsWith('--')?col(l.c):l.c;g.lineWidth=l.w||2;g.setLineDash(l.d||[]);l.pts.forEach((p,i)=>{const x=X(p[0]),y=Y(p[1]);i?g.lineTo(x,y):g.moveTo(x,y)});g.stroke();g.setLineDash([])});
  if(o.now!=null){g.strokeStyle=col('--fg');g.globalAlpha=.4;g.setLineDash([2,4]);g.beginPath();g.moveTo(X(o.now),P.t);g.lineTo(X(o.now),P.t+H);g.stroke();g.setLineDash([]);g.globalAlpha=1}}
 function heat(c,pts,n){const r=devicePixelRatio||1,w=c.clientWidth,h=c.clientHeight;if(!w)return;c.width=w*r;c.height=h*r;const g=c.getContext('2d');g.scale(r,r);
@@ -186,50 +192,57 @@ function mk(dv){const el=$('tpl').content.firstElementChild.cloneNode(true);$('r
  q('.chem').onchange=()=>{dv.chem=q('.chem').value;dv.save()};q('.cap').onchange=()=>{dv.cap=Math.max(1,+q('.cap').value||105);dv.save()};
  q('.bcloud').onclick=()=>upload(dv,true);
  q('.bdis').onclick=()=>{dv.want=false;dv.running=false;try{dv.dev.gatt.disconnect()}catch(e){}};
- q('.bclr').onclick=()=>{if(confirm('Стереть историю и события этой BMS?')){dv.long=[];dv.events=[];dv.ahIn=dv.ahOut=0;dv.t0=Date.now();dv.save()}};
+ q('.bclr').onclick=()=>{if(confirm(tr('Стереть историю и события этой BMS?','Erase the history and events of this BMS?'))){dv.long=[];dv.events=[];dv.ahIn=dv.ahOut=0;dv.t0=Date.now();dv.save()}};
  const file=()=>new File([dv.csv()],`daly_${dv.name}_${new Date().toISOString().slice(0,16).replace(/[:T]/g,'-')}.csv`,{type:'text/csv'});
  q('.bcsv').onclick=()=>{const f=file(),a=document.createElement('a');a.href=URL.createObjectURL(f);a.download=f.name;a.click()};
  q('.bshare').onclick=async()=>{const f=file();try{if(navigator.canShare&&navigator.canShare({files:[f]}))await navigator.share({files:[f],title:'Daly BMS'});else q('.bcsv').click()}catch(e){}};
  const SH=JSON.parse(localStorage.getItem('daly2:shut')||'{}');
  el.querySelectorAll('.card>h2').forEach(h=>{const c=h.parentElement,k=h.textContent.trim();if(SH[k]===undefined?(/Перекос|Ресурс/.test(k)&&matchMedia('(max-width:600px)').matches):SH[k])c.classList.add('shut');
   h.onclick=()=>{c.classList.toggle('shut');SH[k]=c.classList.contains('shut');try{localStorage.setItem('daly2:shut',JSON.stringify(SH))}catch(e){}if(!c.classList.contains('shut'))devs.forEach(upd)}});
+ trDom(el);
  const P={el,q};panels.set(dv.id,P);return P}
 function upd(dv){const P=panels.get(dv.id)||mk(dv),q=P.q,d=dv.last,I=dv.metrics(),lv=!dv.online?2:(dv.last?dv.level:3);
- q('.ban').className='ban l'+lv;q('.nm').textContent=dv.name;q('.st').textContent=!dv.last&&dv.online?'ЖДУ ДАННЫЕ':L[lv==3?1:lv];
+ q('.ban').className='ban l'+lv;q('.nm').textContent=dv.name;q('.st').textContent=!dv.last&&dv.online?tr('ЖДУ ДАННЫЕ','WAITING FOR DATA'):L[lv==3?1:lv];
  q('.pc').textContent=I?I.soc:'–';q('.g1').setAttribute('stroke-dasharray',(I?I.soc:0)+' 100');
- q('.eta').textContent=!dv.online?('Нет связи'+(dv.err?': '+dv.err:'')):(I&&I.eta!=null?`До конца заряда ≈ ${fh(I.eta)} (к ${new Date(Date.now()+I.eta*60000).toLocaleTimeString([],{hour:'2-digit',minute:'2-digit'})}) · ${I.phase}`:(I?I.phase:''));
- q('.kp').innerHTML=d?`<div><b>${d.V.toFixed(1)} В</b>сборка</div><div><b>${d.I.toFixed(1)} А</b>ток</div><div><b>${d.tmax??'—'} °C</b>температура</div>`:'';
+ q('.eta').textContent=!dv.online?(tr('Нет связи','No connection')+(dv.err?': '+dv.err:'')):(I&&I.eta!=null?`${tr('До конца заряда','Time to full')} ≈ ${fh(I.eta)} (${tr('к','by')} ${new Date(Date.now()+I.eta*60000).toLocaleTimeString([],{hour:'2-digit',minute:'2-digit'})}) · ${I.phase}`:(I?I.phase:''));
+ q('.kp').innerHTML=d?`<div><b>${d.V.toFixed(1)} ${uV}</b>${tr('сборка','pack')}</div><div><b>${d.I.toFixed(1)} ${uA}</b>${tr('ток','current')}</div><div><b>${d.tmax??'—'} °C</b>${tr('температура','temperature')}</div>`:'';
  q('.cloud').textContent=cloudLine(dv);
  q('.chips').innerHTML=dv.checks.map(c=>`<span class="chip c${c.level}"><i></i>${esc(c.name)}</span>`).join('');
  q('.issues').innerHTML=dv.checks.filter(c=>c.level>0).map(c=>`<div class="i${c.level}">${esc(c.name)}: ${esc(c.text)}</div>`).join('');
  if(d&&d.cells.length){const C=dv.C,cs=d.cells,mx=Math.max(...cs),mn=Math.min(...cs),m=cs.reduce((a,v)=>a+v,0)/cs.length,lo=C.loBad+200,hi=C.vmax+50,pos=v=>Math.max(0,Math.min(100,(v-lo)/(hi-lo)*100));
   q('.bats').innerHTML=cs.map((v,i)=>`<div class="b1 ${v===mx&&mx!==mn?'mx':v===mn&&mx!==mn?'mn':''}"><div class="tube"><i style="height:${pos(v)}%"></i><u style="bottom:${pos(m)}%"></u></div><b>${(v/1000).toFixed(3)}</b><span>${i+1}${d.bal&&d.bal[i]?' <em class="bal">⚖</em>':''}</span></div>`).join('')}
- q('.res').innerHTML=I?`<div><b>${I.cycles??'—'}</b>циклов (типовой ресурс ~3000)<div class="rb"><i style="width:${Math.min(100,(I.cycles||0)/3000*100)}%"></i></div></div><div><b>${I.ahIn.toFixed(2)}</b>принято А·ч</div><div><b>${I.ahOut.toFixed(2)}</b>отдано А·ч</div><div><b>${I.capBms??'—'}</b>остаток по BMS, А·ч</div>`:'';
- q('.evl').innerHTML=dv.events.slice(0,15).map(e=>`<div class="e${e.level}">${esc(e.t.slice(5))}  ${esc(e.text)}</div>`).join('')||'пока нет';
+ q('.res').innerHTML=I?`<div><b>${I.cycles??'—'}</b>${tr('циклов (типовой ресурс ~3000)','cycles (typical life ~3000)')}<div class="rb"><i style="width:${Math.min(100,(I.cycles||0)/3000*100)}%"></i></div></div><div><b>${I.ahIn.toFixed(2)}</b>${tr('принято А·ч','charged, Ah')}</div><div><b>${I.ahOut.toFixed(2)}</b>${tr('отдано А·ч','discharged, Ah')}</div><div><b>${I.capBms??'—'}</b>${tr('остаток по BMS, А·ч','remaining per BMS, Ah')}</div>`:'';
+ q('.evl').innerHTML=dv.events.slice(0,15).map(e=>`<div class="e${e.level}">${esc(e.t.slice(5))}  ${esc(e.text)}</div>`).join('')||tr('пока нет','none yet');
  charts(dv,I,P)}
 function charts(dv,I,P){const q=P.q,lg=dv.long;if(!I||lg.length<2)return;const C=dv.C,t0=lg[0][0],sum=p=>p[2].reduce((a,v)=>a+v,0)/1000,
  act=lg.map(p=>[(p[0]-t0)/3600,sum(p)]),cur=lg.map(p=>[(p[0]-t0)/3600,p[1]]),spr=lg.map(p=>[(p[0]-t0)/3600,Math.max(...p[2])-Math.min(...p[2])]),
  id=ideal(I,C),xn=act[act.length-1][0],xmax=Math.max(id.tEnd,xn)*1.03||1,n=I.n,vm=C.vmax/1000,vlo=C.ocv[0][0];
- plot(q('.cV'),{x:[0,xmax],y:[n*vlo,n*(vm+.1)],yf:v=>v.toFixed(0)+' В',now:xn,bands:[{y0:n*vm,y1:n*(vm+.1),c:'rgba(198,40,40,.10)'}],
+ plot(q('.cV'),{x:[0,xmax],y:[n*vlo,n*(vm+.1)],yf:v=>v.toFixed(0)+' '+uV,now:xn,bands:[{y0:n*vm,y1:n*(vm+.1),c:'rgba(198,40,40,.10)'}],
   lines:[{pts:[[0,n*vm],[xmax,n*vm]],c:'--bad',w:1,d:[6,4]},{pts:id.V,c:'--acc2',d:[7,5],w:2},{pts:act,c:'--acc',w:2.5}]});
- plot(q('.cI'),{x:[0,xmax],y:[0,Math.max(id.iset*1.25,...cur.map(p=>p[1]),1)],yf:v=>v.toFixed(0)+' А',now:xn,yt:3,lines:[{pts:id.A,c:'--acc2',d:[7,5],w:2},{pts:cur,c:'--acc',w:2.5}]});
+ plot(q('.cI'),{x:[0,xmax],y:[0,Math.max(id.iset*1.25,...cur.map(p=>p[1]),1)],yf:v=>v.toFixed(0)+' '+uA,now:xn,yt:3,lines:[{pts:id.A,c:'--acc2',d:[7,5],w:2},{pts:cur,c:'--acc',w:2.5}]});
  heat(q('.heat'),lg,n);
- plot(q('.spr'),{x:[0,xmax],y:[0,200],yf:v=>v.toFixed(0)+' мВ',now:xn,bands:[{y0:0,y1:30,c:'rgba(46,125,50,.18)'},{y0:30,y1:150,c:'rgba(194,122,0,.10)'},{y0:150,y1:200,c:'rgba(198,40,40,.12)'}],
+ plot(q('.spr'),{x:[0,xmax],y:[0,200],yf:v=>v.toFixed(0)+' '+umV,now:xn,bands:[{y0:0,y1:30,c:'rgba(46,125,50,.18)'},{y0:30,y1:150,c:'rgba(194,122,0,.10)'},{y0:150,y1:200,c:'rgba(198,40,40,.12)'}],
   lines:[{pts:[[0,100],[id.tEnd*.7,100],[id.tEnd,30]],c:'--acc2',d:[7,5],w:2},{pts:spr,c:'--acc',w:2.5}]})}
 
 async function addDevice(all){audio();try{Notification.requestPermission&&Notification.requestPermission()}catch(e){}
  try{const opt=all?{acceptAllDevices:true,optionalServices:[SVC]}:{filters:[{namePrefix:'DL-'},{services:[SVC]}],optionalServices:[SVC]};
   const device=await navigator.bluetooth.requestDevice(opt);
-  if(devs.has(device.id)){const o=devs.get(device.id);if(!o.running){o.want=true;o.reconnect()}glog('уже добавлена: '+o.name);return}
-  const dv=new Dev(device);devs.set(device.id,dv);$('hero').style.display='none';upd(dv);glog('подключаю '+dv.name+', в истории '+dv.long.length+' точек');
+  if(devs.has(device.id)){const o=devs.get(device.id);if(!o.running){o.want=true;o.reconnect()}glog(tr('уже добавлена: ','already added: ')+o.name);return}
+  const dv=new Dev(device);devs.set(device.id,dv);$('hero').style.display='none';upd(dv);glog(tr('подключаю ','connecting ')+dv.name+tr(', в истории ',', history: ')+dv.long.length+tr(' точек',' points'));
   try{await dv.connect()}catch(e){dv.err=String(e.message||e);glog(dv.name+': '+dv.err);dv.reconnect()}
- }catch(e){glog('не подключилось: '+e.message);if(/not supported on this platform/i.test(e.message))$('sup').innerHTML='<b>Этот браузер не поддерживает Bluetooth.</b> Откройте ссылку в Google Chrome (не во встроенном браузере телефона, не в Яндексе, Samsung Internet или Telegram). В Android включите Bluetooth и геолокацию, дайте Chrome разрешение «Устройства поблизости».'}}
+ }catch(e){glog(tr('не подключилось: ','could not connect: ')+e.message);if(/not supported on this platform/i.test(e.message))$('sup').innerHTML=tr('<b>Этот браузер не поддерживает Bluetooth.</b> Откройте ссылку в Google Chrome (не во встроенном браузере телефона, не в Яндексе, Samsung Internet или Telegram). В Android включите Bluetooth и геолокацию, дайте Chrome разрешение «Устройства поблизости».','<b>This browser does not support Bluetooth.</b> Open the link in Google Chrome (not in an in-app browser, Yandex, Samsung Internet or Telegram). On Android turn on Bluetooth and location and allow Chrome the "Nearby devices" permission.')}}
 $('add').onclick=()=>addDevice(false);$('addall').onclick=()=>addDevice(true);
-const ua=navigator.userAgent;if(/SamsungBrowser|YaBrowser|OPR\/|UCBrowser|MiuiBrowser|VivoBrowser|; wv\)|Telegram|FB_IAB|FBAN/i.test(ua))$('sup').textContent='Похоже, это не Google Chrome: Bluetooth может не работать. Откройте ссылку в Chrome.';
-if(!navigator.bluetooth){$('sup').textContent='Web Bluetooth недоступен: откройте страницу в Chrome на Android (или Chrome/Edge на компьютере) по адресу https.';$('add').disabled=$('addall').disabled=true}
+const ua=navigator.userAgent;if(/SamsungBrowser|YaBrowser|OPR\/|UCBrowser|MiuiBrowser|VivoBrowser|; wv\)|Telegram|FB_IAB|FBAN/i.test(ua))$('sup').textContent=tr('Похоже, это не Google Chrome: Bluetooth может не работать. Откройте ссылку в Chrome.','This does not look like Google Chrome: Bluetooth may not work. Open the link in Chrome.');
+if(!navigator.bluetooth){$('sup').textContent=tr('Web Bluetooth недоступен: откройте страницу в Chrome на Android (или Chrome/Edge на компьютере) по адресу https. Демо работает и без Bluetooth.','Web Bluetooth is unavailable: open the page over https in Chrome on Android (or Chrome/Edge on desktop). The demo works without Bluetooth.');$('add').disabled=$('addall').disabled=true}
 $('cloudOn').checked=localStorage.getItem('daly2:cloud')==='1';
-$('cloudOn').onchange=()=>{localStorage.setItem('daly2:cloud',$('cloudOn').checked?'1':'0');if($('cloudOn').checked&&!cloudUrl())glog('облако пока не настроено автором');$('cloudInfo').textContent=cloudUrl()?'':' (облако пока не подключено)'};
-$('cloudInfo').textContent=cloudUrl()?'':' (облако пока не подключено)';
+$('cloudOn').onchange=()=>{localStorage.setItem('daly2:cloud',$('cloudOn').checked?'1':'0');if($('cloudOn').checked&&!cloudUrl())glog(tr('облако пока не настроено автором','cloud is not configured by the author yet'));$('cloudInfo').textContent=cloudUrl()?'':tr(' (облако пока не подключено)',' (cloud not connected yet)')};
+$('cloudInfo').textContent=cloudUrl()?'':tr(' (облако пока не подключено)',' (cloud not connected yet)');
+const DICT={'Daly BMS монитор':'Daly BMS Monitor','Подключите Daly BMS':'Connect your Daly BMS','Включите BMS, закройте приложение Smart BMS и нажмите кнопку.':'Turn the BMS on, close the Smart BMS app and press the button.','Подключить BMS':'Connect BMS','Демо без BMS':'Demo without a BMS','Дополнительно':'More','Отправлять данные заряда автору (анонимно)':'Send charge data to the author (anonymous)','Уходят только напряжения ячеек, ток и события. Имя устройства и геолокация не отправляются.':'Only cell voltages, current and events are sent. Device name and location are never sent.','Показать все Bluetooth-устройства':'Show all Bluetooth devices','Журнал':'Log','заряд, ≈%':'charge, ≈%','Заряд: идеал и сейчас':'Charge: ideal vs now','сейчас':'now','идеал':'ideal','предел ячейки':'cell limit','Ячейки и балансировка':'Cells and balancing','■ выше среднего':'■ above average','■ ниже среднего':'■ below average','⚖ балансир работает':'⚖ balancing active','Перекос ячеек':'Cell spread','■ цель ≤30 мВ':'■ target ≤30 mV','■ допуск ≤150':'■ limit ≤150','Ресурс':'Lifetime','Настройки и данные':'Settings and data','Химия':'Chemistry','Ёмкость, А·ч':'Capacity, Ah','Скачать CSV':'Download CSV','Поделиться':'Share','Отправить сейчас':'Upload now','Очистить историю':'Clear history','Отключить':'Disconnect','Ёмкость нужна для оценки времени до конца заряда и «идеальной» кривой. Химия задаёт предел ячейки (3,65 В для LiFePO4, 4,2 В для NMC).':'Capacity is used for the time-to-full estimate and the "ideal" curve. Chemistry sets the cell limit (3.65 V for LiFePO4, 4.2 V for NMC).','События':'Events'};
+function trDom(root){if(LANG==='ru')return;const w=document.createTreeWalker(root,NodeFilter.SHOW_TEXT);let n;while(n=w.nextNode()){const s=n.nodeValue.trim();if(DICT[s])n.nodeValue=n.nodeValue.replace(s,DICT[s])}}
+document.documentElement.lang=LANG;trDom(document.body);
+if(LANG==='en'){document.title='Daly BMS Monitor';const m=document.querySelector('meta[name=description]');if(m)m.content='Daly Smart BMS monitor over Bluetooth: charge charts, cells, balancing, checks.'}
+$('lang').textContent=LANG==='ru'?'EN':'RU';
+$('lang').onclick=()=>{try{localStorage.setItem('daly2:lang',LANG==='ru'?'en':'ru')}catch(e){}const q=new URLSearchParams(location.search);q.delete('lang');location.search=q.toString()};
 setInterval(uploadAll,60000);
 setInterval(()=>{$('clock').textContent=new Date().toLocaleTimeString();devs.forEach(upd)},2000);
 addEventListener('beforeunload',()=>devs.forEach(d=>d.save()));

diff --git a/demo.js b/demo.js
@@ -11,7 +11,7 @@ function demoD(st,t,dt){const C=CHEM.lfp,mvA=735/DEMO.cap/1000;
   state:1,chg:1,dis:1,cap:+(st.s/100*DEMO.cap).toFixed(1),n:DEMO.n,charger:1,load:0,cycles:142,cells,
   bal:cells.map(v=>hi&&v>avg+5?1:0),fault:[0,0,0,0,0,0,0,0],asleep:false}}
 class DemoDev extends Dev{
- constructor(){super({id:'demo',name:'DEMO (симуляция)',addEventListener(){}});this.demo=true;this.chem='lfp';this.cap=DEMO.cap}
+ constructor(){super({id:'demo',name:tr('DEMO (симуляция)','DEMO (simulated)'),addEventListener(){}});this.demo=true;this.chem='lfp';this.cap=DEMO.cap}
  save(){}
  start(){const st={s:40,I:DEMO.iset,cv:false},T=Date.now()/1000-7200;
   for(let k=0;k<3600;k++)this.update(demoD(st,T+k*2,2));   // 2 часа «прошлого», чтобы графики не были пустыми
@@ -20,5 +20,5 @@ class DemoDev extends Dev{
  stop(){clearInterval(this.timer);this.running=false}}
 function exitDemo(dv){dv.stop();devs.delete('demo');const P=panels.get('demo');if(P)P.el.remove();panels.delete('demo');$('hero').style.display=''}
 $('demo').onclick=()=>{if(devs.has('demo'))return;const dv=new DemoDev();devs.set('demo',dv);$('hero').style.display='none';dv.start();upd(dv);
- panels.get('demo').q('.bdis').onclick=()=>exitDemo(dv);toast('Демо: данные симулируются, BMS не нужна','ok')};
+ panels.get('demo').q('.bdis').onclick=()=>exitDemo(dv);toast(tr('Демо: данные симулируются, BMS не нужна','Demo: data is simulated, no BMS needed'),'ok')};
 if(/[?&]demo\b/.test(location.search))$('demo').click();

diff --git a/index.html b/index.html
@@ -14,7 +14,7 @@
 <link rel="stylesheet" href="app.css">
 </head>
 <body>
-<h1><span>Daly BMS монитор</span><small style="color:var(--mut);font-weight:400" id="clock"></small></h1>
+<h1><span>Daly BMS монитор</span><span><small style="color:var(--mut);font-weight:400" id="clock"></small><button id="lang" type="button" aria-label="Language" style="font-size:12px;padding:2px 8px;margin-left:8px"></button></span></h1>
 <div class="card" id="hero">
  <h2>Подключите Daly BMS</h2>
  <p class="note">Включите BMS, закройте приложение Smart BMS и нажмите кнопку.</p>

diff --git a/sw.js b/sw.js
@@ -1,5 +1,5 @@
 // Кэш для офлайн-запуска: страница, манифест, значки. Данные BMS идут по Bluetooth, сеть не нужна.
-const CACHE = 'daly-bms-v8';
+const CACHE = 'daly-bms-v9';
 const FILES = ['./', 'index.html', 'app.css', 'app.js', 'demo.js', 'manifest.webmanifest', 'icon.svg', 'icon-192.png', 'icon-512.png'];
 self.addEventListener('install', e => e.waitUntil(caches.open(CACHE).then(c => c.addAll(FILES)).then(() => self.skipWaiting())));
 self.addEventListener('activate', e => e.waitUntil(

diff --git a/README.en.md b/README.en.md
@@ -7,11 +7,11 @@ A web app (PWA) for phone and desktop that reads a **Daly Smart BMS** with a Blu
 **Open:** https://dropand.github.io/daly-bms-monitor/ in Chrome on Android, or Chrome/Edge on desktop.
 **No BMS at hand?** Try the simulated demo: https://dropand.github.io/daly-bms-monitor/?demo (works in any browser).
 
-> The interface is currently in Russian. English UI is not done yet; the charts, numbers and cell view are language-independent.
+The interface is available in **English and Russian**. The language is picked from your browser; use the RU/EN button in the header to switch (or add `?lang=en` / `?lang=ru` to the URL).
 
 <p>
-  <img src="docs/screenshot-mobile.png" alt="Mobile view (demo, simulated data)" width="260">
-  <img src="docs/screenshot-desktop.png" alt="Desktop view (demo, simulated data)" width="520">
+  <img src="docs/screenshot-en-mobile.png" alt="Mobile view (demo, simulated data)" width="260">
+  <img src="docs/screenshot-en-desktop.png" alt="Desktop view (demo, simulated data)" width="520">
 </p>
 
 *Screenshots are taken in demo mode with simulated data.*

diff --git a/README.md b/README.md
@@ -6,7 +6,7 @@
 
 **Нет BMS под рукой?** Демо с симуляцией: https://dropand.github.io/daly-bms-monitor/?demo (работает в любом браузере).
 
-[English version](README.en.md)
+[English version](README.en.md) · интерфейс на русском и английском: язык выбирается по браузеру, переключатель RU/EN в шапке (или `?lang=en` / `?lang=ru` в адресе).
 
 <p>
   <img src="docs/screenshot-mobile.png" alt="Телефон (демо, симуляция)" width="260">
